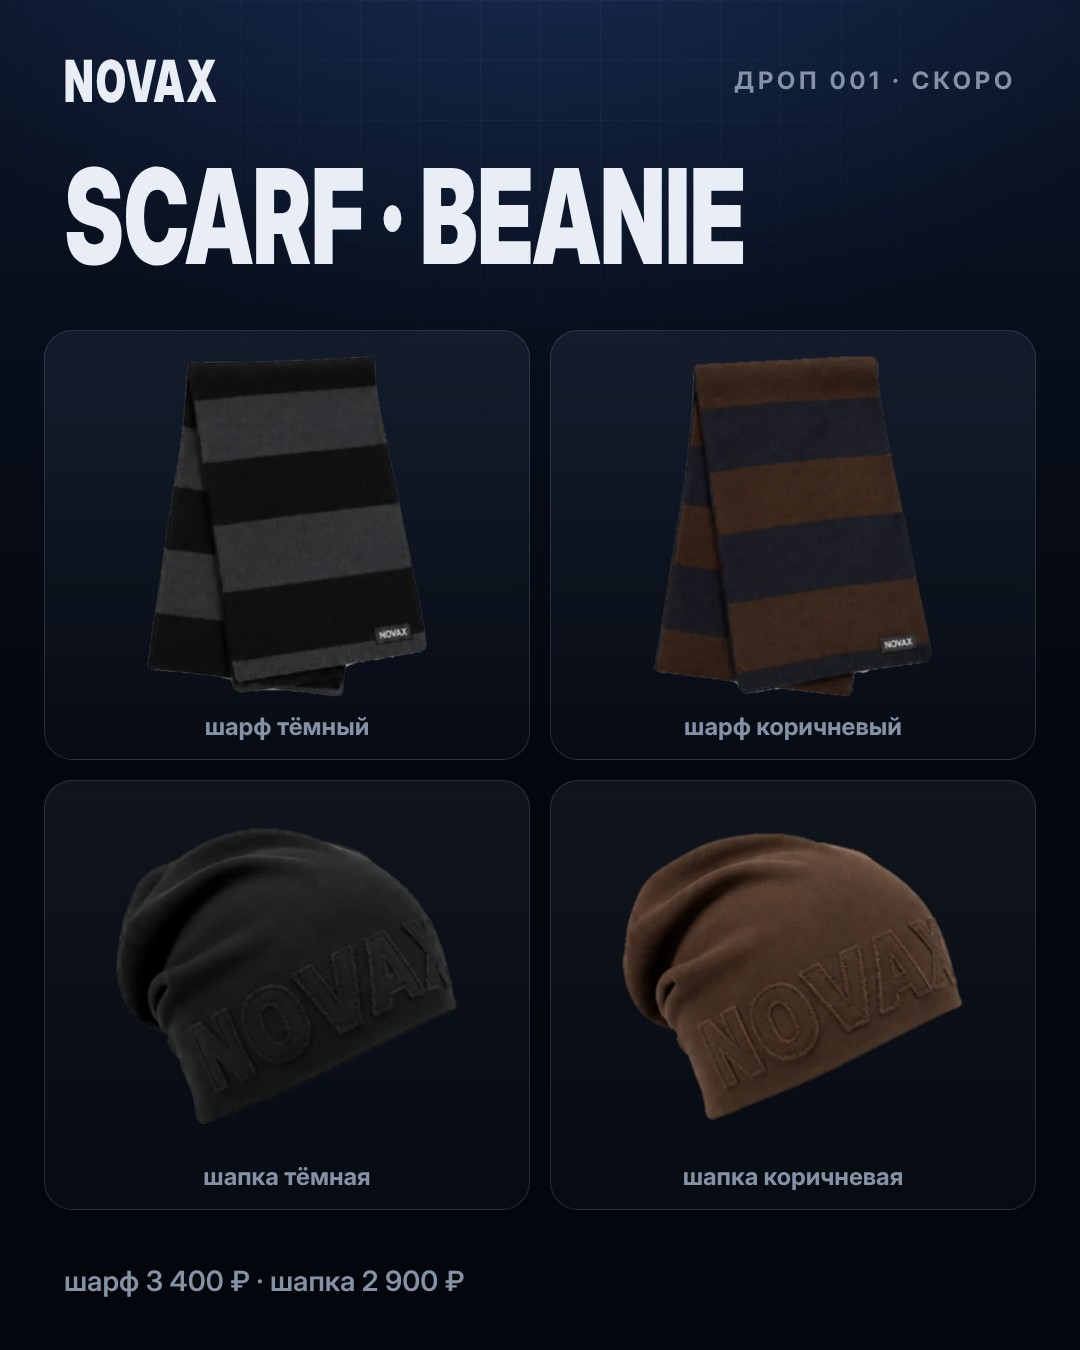
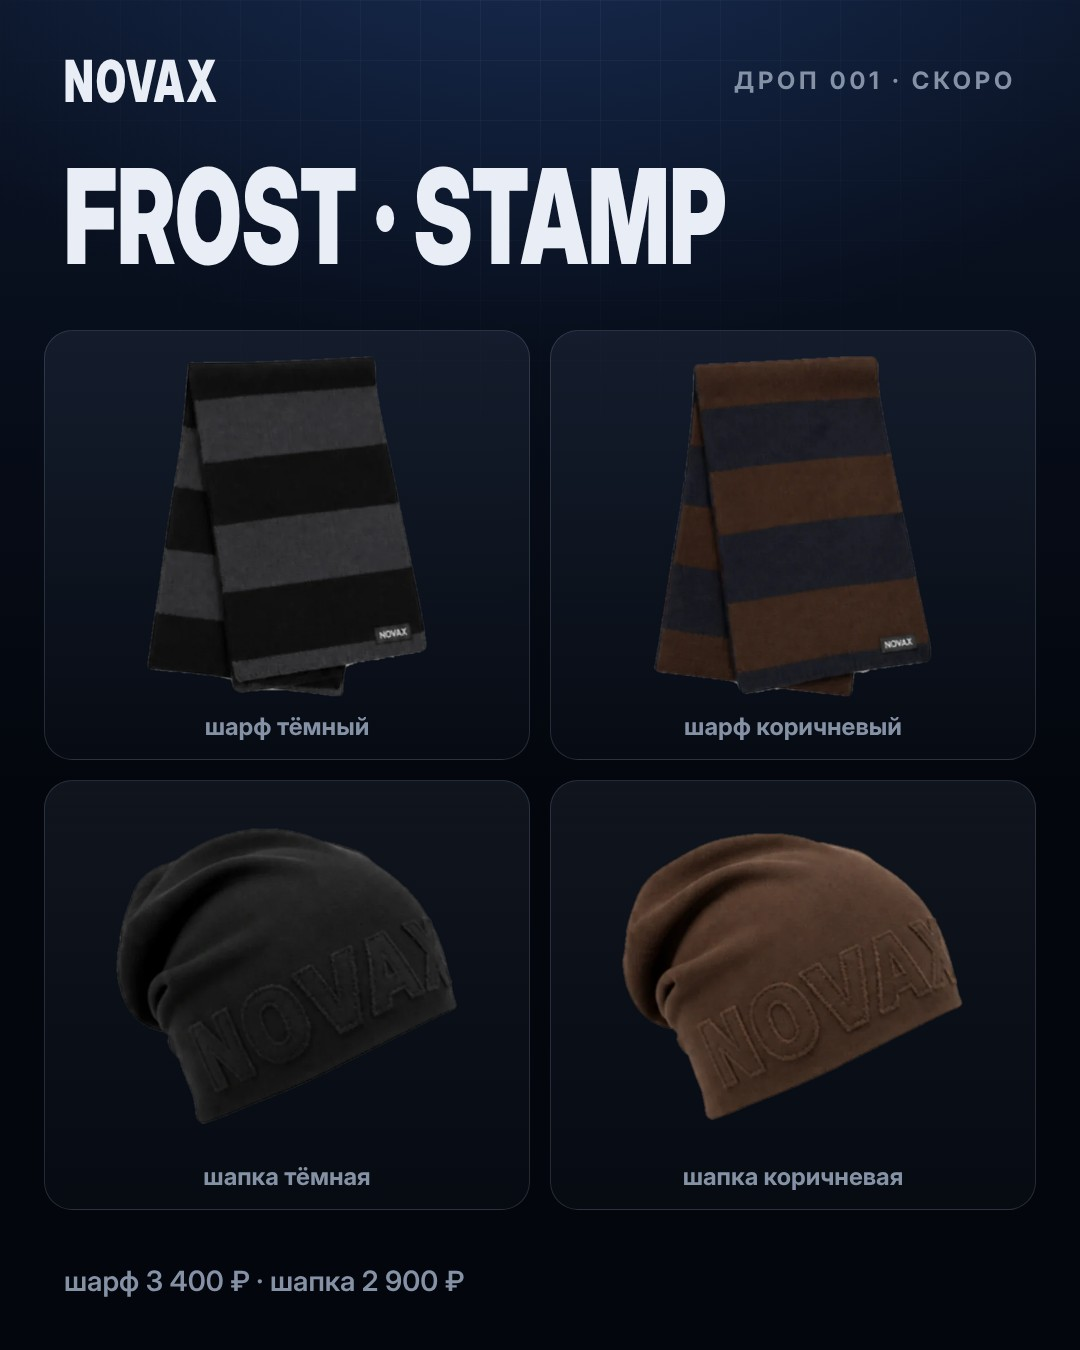
NOVAX: названия вещей в мини-аппе и карточках
Claude-Session: https://claude.ai/code/session_01A1b4M2c8tYCYMCwWcEobE5

Changed region(s): [[0.0611, 0.1244, 0.7028, 0.2178]]

diff --git a/novax/app/index.html b/novax/app/index.html
@@ -165,13 +165,13 @@ img{display:block;max-width:100%}
 <script>
 const C={black:['тёмный','#111214'],navy:['тёмно-синий','#1b2740'],brown:['коричневый','#4a3022'],graphite:['графит','#4b4e53']};
 const P=[
- {id:'puffer',cat:'пуховики',name:'PUFFER 01',d:'пуховик укороченный с капюшоном',p:24900,c:['black','navy','brown','graphite'],img:c=>`puffer-${c}`,x:['пух 90/10, 750 fp','мембранная ткань, не продувается','утяжки на подоле и капюшоне','носка до −25°']},
- {id:'hoodie',cat:'худи',name:'ZIP HOODIE',d:'укороченное худи на двойной молнии',p:8900,c:['black','navy','brown','graphite'],img:c=>`hoodie-${c}`,x:['футер с начёсом 480 г/м²','рукав-баллон, плотные манжеты','двусторонняя металлическая молния']},
- {id:'crew',cat:'свитшоты',name:'CREWNECK',d:'свитшот укороченный',p:7400,c:['black','navy','brown','graphite'],img:c=>`crew-${c}`,x:['футер 420 г/м²','спущенное плечо','широкая резинка по низу']},
- {id:'tee-over',cat:'футболки',name:'TEE OVERSIZE',d:'футболка оверсайз',p:4400,c:['black','navy','brown','graphite'],img:c=>`tee-over-${c}`,x:['хлопок 260 г/м²','коробчатый крой','плотная горловина']},
- {id:'tee-true',cat:'футболки',name:'TEE TRUE FIT',d:'футболка по размеру',p:3900,c:['black','navy','brown','graphite'],img:c=>`tee-true-${c}`,x:['хлопок 220 г/м²','классическая посадка','логотип на груди слева']},
- {id:'scarf',cat:'аксессуары',name:'SCARF',d:'шарф в широкую полоску',p:3400,c:['black','brown'],cn:{black:'тёмный / графит',brown:'коричневый / синий'},img:c=>`scarf-${c}`,x:['шерсть с акрилом','вязаная бирка NOVAX'],one:true},
- {id:'beanie',cat:'аксессуары',name:'BEANIE RAW',d:'шапка с объёмным логотипом',p:2900,c:['black','brown'],img:c=>`beanie-${c}`,x:['плотный джерси','логотип аппликацией с сырым краем'],one:true}
+ {id:'puffer',cat:'пуховики',name:'ZERO',d:'пуховик укороченный с капюшоном',p:24900,c:['black','navy','brown','graphite'],img:c=>`puffer-${c}`,x:['пух 90/10, 750 fp','мембранная ткань, не продувается','утяжки на подоле и капюшоне','носка до −25°']},
+ {id:'hoodie',cat:'худи',name:'NIGHT ZIP',d:'укороченное худи на двойной молнии',p:8900,c:['black','navy','brown','graphite'],img:c=>`hoodie-${c}`,x:['футер с начёсом 480 г/м²','рукав-баллон, плотные манжеты','двусторонняя металлическая молния']},
+ {id:'crew',cat:'свитшоты',name:'QUIET CREW',d:'свитшот укороченный',p:7400,c:['black','navy','brown','graphite'],img:c=>`crew-${c}`,x:['футер 420 г/м²','спущенное плечо','широкая резинка по низу']},
+ {id:'tee-over',cat:'футболки',name:'BOX TEE',d:'футболка оверсайз',p:4400,c:['black','navy','brown','graphite'],img:c=>`tee-over-${c}`,x:['хлопок 260 г/м²','коробчатый крой','плотная горловина']},
+ {id:'tee-true',cat:'футболки',name:'CORE TEE',d:'футболка по размеру',p:3900,c:['black','navy','brown','graphite'],img:c=>`tee-true-${c}`,x:['хлопок 220 г/м²','классическая посадка','логотип на груди слева']},
+ {id:'scarf',cat:'аксессуары',name:'FROST SCARF',d:'шарф в широкую полоску',p:3400,c:['black','brown'],cn:{black:'тёмный / графит',brown:'коричневый / синий'},img:c=>`scarf-${c}`,x:['шерсть с акрилом','вязаная бирка NOVAX'],one:true},
+ {id:'beanie',cat:'аксессуары',name:'STAMP BEANIE',d:'шапка с объёмным логотипом',p:2900,c:['black','brown'],img:c=>`beanie-${c}`,x:['плотный джерси','логотип аппликацией с сырым краем'],one:true}
 ];
 const cats=['все',...new Set(P.map(p=>p.cat))];
 const tg=window.Telegram&&Telegram.WebApp;
